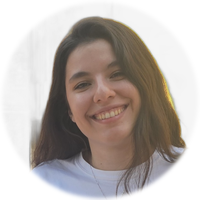
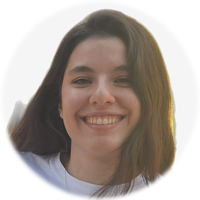
scripts: level the eyes and clear rembg's background haze
Two defects in the portraits committed earlier, both visible on the live site.

Heads were not being levelled. The reference your original foo.py cites at the
top -- pyimagesearch's face-alignment article -- is about detecting the eyes and
rotating until they are horizontal, but neither foo.py nor my rewrite ever did
it. Adds eye detection inside the upper part of the face box, measures the angle
between the two strongest detections, and rotates by that amount before
cropping. Johanna's head was tilted 16.4 degrees; Hui Zhao's by 1.5.

The image being upright is not the same as the head being upright, and it is the
head that matters. EXIF handling, which is what I had, only corrects a photo
stored sideways by the camera.

Guards: rotation is skipped below 0.75 degrees, where it would cost a resample
for nothing, and above 35 degrees, where a bad eye detection is likelier than a
genuinely tilted head. Two eye boxes closer together than 15% of the face width
are one eye found twice, not a pair. After rotating, the face is located again
rather than transforming the old coordinates. --no-align opts out.

Backgrounds were tinted. rembg does not return a clean two-level matte: it
leaves a haze of alpha 1-10 across the background it discarded, 15.4% of
Johanna's frame. Against transparency that is invisible, which is why it went
unnoticed, but composited onto a flat colour it tints the entire backdrop and
[…]

diff --git a/scripts/portraits.py b/scripts/portraits.py
@@ -19,6 +19,8 @@ The output name comes from the input filename, so name the photo after the
 member id used in ``content/member/<id>.md``.
 """
 
+import math
+
 import click
 import cv2
 import numpy as np
@@ -31,6 +33,7 @@ SIZE = 200
 BACKGROUND = (245, 245, 245)  # flat colour placed behind the cut-out person
 CROP_SCALE = 2.0  # square crop side, as a multiple of the detected face width
 CROP_DROP = 0.05  # nudge the crop down slightly, so hair is not clipped
+ALPHA_FLOOR = 26  # below this, rembg alpha is background haze rather than a real edge
 
 # The existing portraits have a circle that fades out over roughly six pixels
 # rather than a hard edge. Reproduced by insetting the circle and blurring it.
@@ -46,6 +49,15 @@ CASCADES = (
     "haarcascade_frontalface_alt.xml",
     "haarcascade_frontalface_default.xml",
 )
+
+# Face alignment: rotate so the eyes sit level. The eyeglasses variant is tried
+# first because it also handles bare eyes, just more conservatively.
+EYE_CASCADES = (
+    "haarcascade_eye_tree_eyeglasses.xml",
+    "haarcascade_eye.xml",
+)
+MIN_ALIGN_ANGLE = 0.75  # below this a rotation is not worth the resampling
+MAX_ALIGN_ANGLE = 35.0  # beyond this the eye detection is more likely wrong than the head
 
 # macOS resource forks and other dotfiles that are not really photos.
 IGNORED_PREFIXES = ("._", ".")
@@ -83,7 +95,16 @@ def cut_out_person(image: Image.Image) -> Image.Image:
     # works when rembg (a ~180MB install) is absent or broken.
     from rembg import remove
 
-    return remove(image)
+    cut = remove(image)
+
+    # rembg leaves a haze of very low alpha across the background it discarded --
+    # typically 15% of the frame at alpha 1-10. Invisible against transparency,
+    # but once composited onto a flat colour it tints the whole backdrop and
+    # leaves ghosts of whatever was behind the subject. Anything this faint is
+    # discarded outright; genuine edge feathering sits well above the floor.
+    red, green, blue, alpha = cut.split()
+    alpha = alpha.point(lambda value: 0 if value < ALPHA_FLOOR else value)
+    return Image.merge("RGBA", (red, green, blue, alpha))
 
 
 def flatten(image: Image.Image, colour: tuple[int, int, int]) -> Image.Image:
@@ -123,6 +144,55 @@ def find_face(image: Image.Image) -> tuple[int, int, int, int]:
         "no face detected. Use a photo where the face is larger, front-on and "
         "in focus, or crop it square yourself and pass --no-detect."
     )
+
+
+def eye_angle(image: Image.Image, face: tuple[int, int, int, int]) -> float | None:
+    """Angle of the line between the eyes, in degrees, or None if not measurable.
+
+    Positive means the subject's head is tilted clockwise on screen (their right
+    eye sits lower), which is corrected by rotating the image anticlockwise.
+    """
+    x, y, width, height = face
+    # Eyes are in the upper part of the face box. Restricting the search there
+    # keeps nostrils and mouth corners from being mistaken for eyes.
+    roi = image.crop((x, y, x + width, y + int(height * 0.6)))
+    grey = cv2.equalizeHist(cv2.cvtColor(np.array(roi), cv2.COLOR_RGB2GRAY))
+    smallest = max(12, width // 12)
+
+    for name in EYE_CASCADES:
+        classifier = cv2.CascadeClassifier(cv2.data.haarcascades + name)
+        if classifier.empty():
+            continue
+        eyes = classifier.detectMultiScale(
+            grey, scaleFactor=1.1, minNeighbors=6, minSize=(smallest, smallest)
+        )
+        if len(eyes) < 2:
+            continue
+
+        # Keep the two strongest detections, then order them left to right.
+        left, right = sorted(sorted(eyes, key=lambda e: e[2] * e[3])[-2:], key=lambda e: e[0])
+        left_x, left_y = left[0] + left[2] / 2, left[1] + left[3] / 2
+        right_x, right_y = right[0] + right[2] / 2, right[1] + right[3] / 2
+
+        # Two boxes on top of each other are one eye found twice, not a pair.
+        if right_x - left_x < width * 0.15:
+            continue
+
+        return math.degrees(math.atan2(right_y - left_y, right_x - left_x))
+
+    return None
+
+
+def level_eyes(
+    image: Image.Image, face: tuple[int, int, int, int], background: tuple[int, int, int]
+) -> Image.Image | None:
+    """Rotate the photo so the eyes are horizontal. None when no rotation applies."""
+    angle = eye_angle(image, face)
+    if angle is None or not MIN_ALIGN_ANGLE <= abs(angle) <= MAX_ALIGN_ANGLE:
+        return None
+    # expand=True so no part of the head is rotated out of frame; the corners
+    # this opens up are filled with the same flat colour as the background.
+    return image.rotate(angle, resample=Image.BICUBIC, expand=True, fillcolor=background)
 
 
 def crop_to_face(image: Image.Image, face: tuple[int, int, int, int]) -> Image.Image:
@@ -167,6 +237,7 @@ def make_portrait(
     *,
     remove_background: bool,
     detect_face: bool,
+    align: bool,
     background: tuple[int, int, int],
 ) -> Image.Image:
     image = load_photo(path)
@@ -174,7 +245,18 @@ def make_portrait(
         image = cut_out_person(image)
 
     flat = flatten(image, background)
-    framed = crop_to_face(flat, find_face(flat)) if detect_face else crop_centre(flat)
+    if detect_face:
+        face = find_face(flat)
+        if align:
+            levelled = level_eyes(flat, face, background)
+            if levelled is not None:
+                # The rotation moved everything, so locate the face again rather
+                # than trying to transform the old coordinates.
+                flat = levelled
+                face = find_face(flat)
+        framed = crop_to_face(flat, face)
+    else:
+        framed = crop_centre(flat)
 
     portrait = framed.resize((SIZE, SIZE), Image.LANCZOS).convert("RGBA")
     portrait.putalpha(circular_mask(SIZE))
@@ -234,6 +316,11 @@ def describe(path: Path) -> str:
     help="Skip face detection and centre-crop instead.",
 )
 @click.option(
+    "--no-align",
+    is_flag=True,
+    help="Do not rotate the photo to level the subject's eyes.",
+)
+@click.option(
     "--background",
     default="#f5f5f5",
     callback=parse_colour,
@@ -247,6 +334,7 @@ def main(
     out: Path | None,
     keep_background: bool,
     no_detect: bool,
+    no_align: bool,
     background: tuple[int, int, int],
     force: bool,
 ) -> None:
@@ -283,6 +371,7 @@ def main(
                 path,
                 remove_background=not keep_background,
                 detect_face=not no_detect,
+                align=not no_align,
                 background=background,
             )
         except SkipPhoto as exc:
